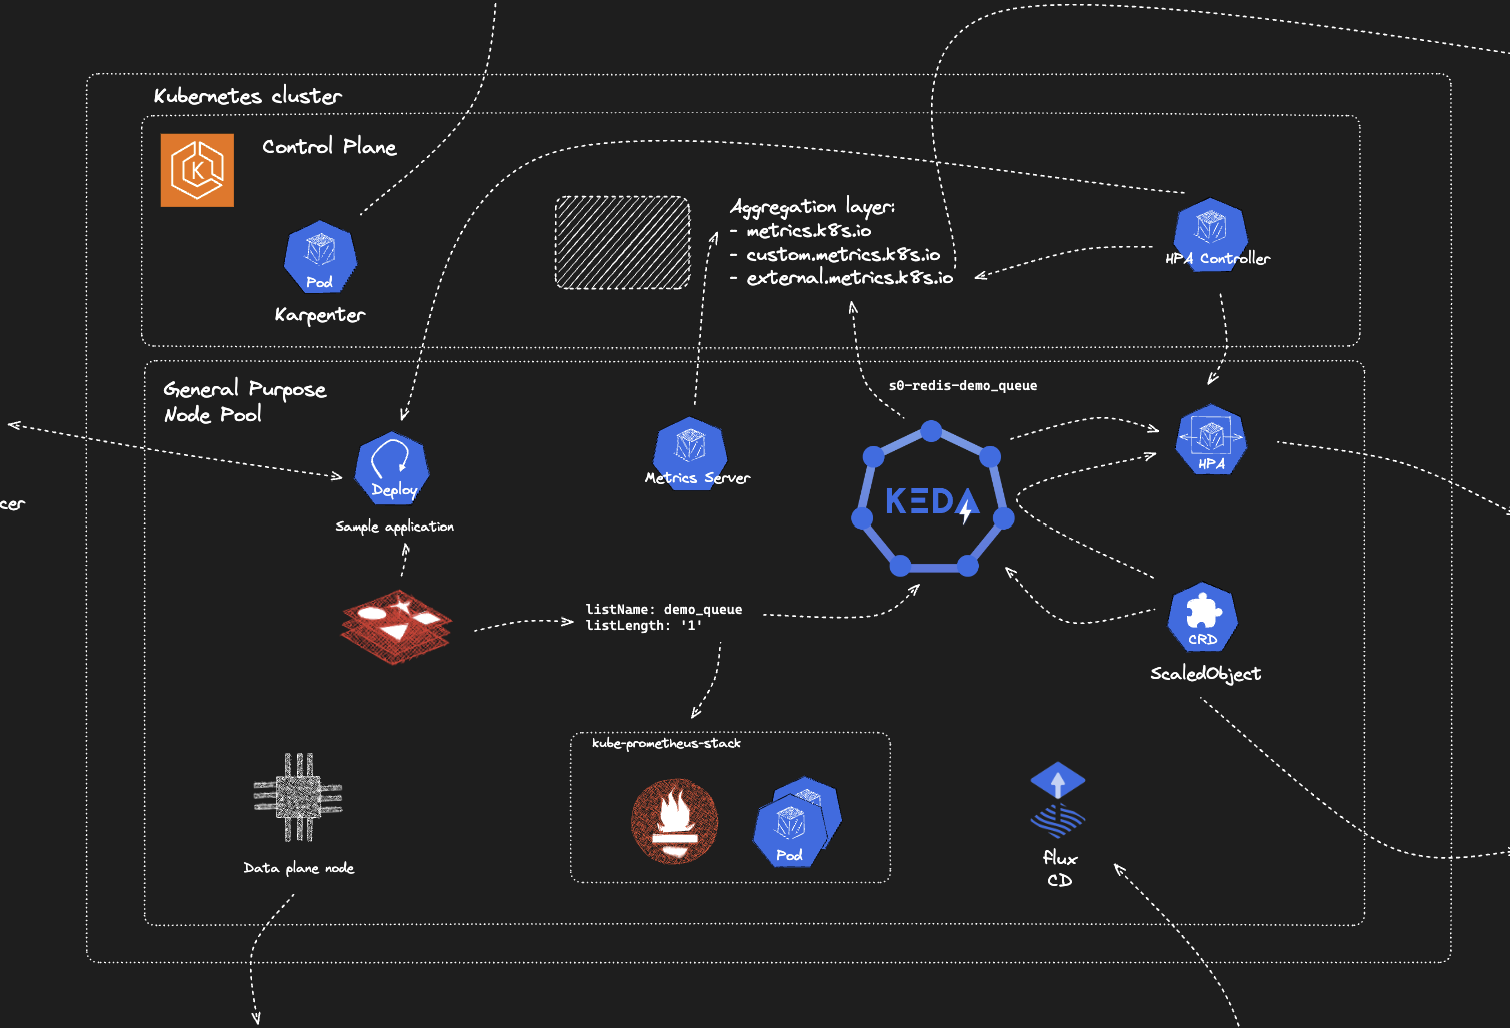
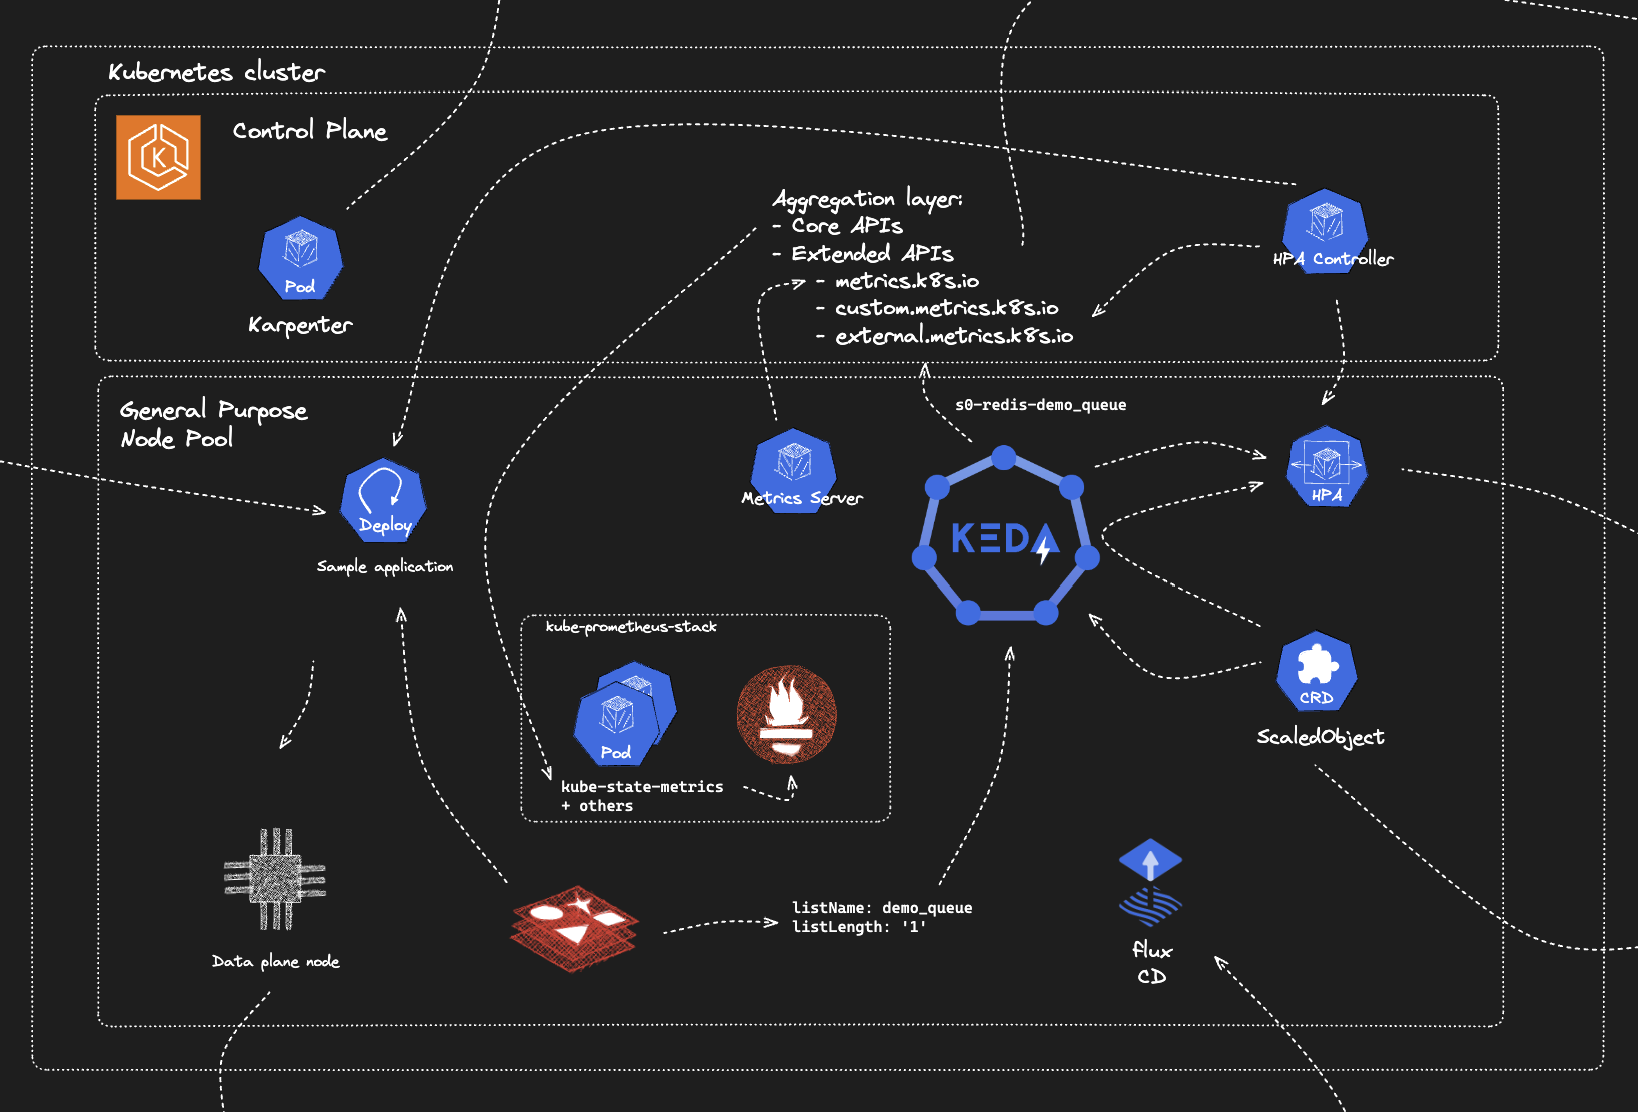
updated readme

diff --git a/eda-keda-prometheus/README.md b/eda-keda-prometheus/README.md
@@ -347,6 +347,19 @@ You will see the HPA event we just triggered:
 
 ![grafana dashboard hpa](./images/grafana_dashboard_hpa.png)
 
+#### How Redis Queue Metrics Appear in Grafana
+
+The HPA dashboard shows the `s0-redis-demo_queue` metric through this flow:
+
+1. **KEDA queries Redis directly**
+2. **KEDA exposes metric** via External Metrics API: `/apis/external.metrics.k8s.io/v1beta1/.../s0-redis-demo_queue`
+3. **HPA controller queries External Metrics API** and updates HPA object status with current value
+4. **kube-state-metrics reads HPA object** via Core Kubernetes API: `/apis/autoscaling/v2/.../horizontalpodautoscalers/...`
+5. **kube-state-metrics exports to Prometheus**
+6. **Grafana queries Prometheus**
+
+The `s0-redis-demo_queue` metric name appears in Grafana because kube-state-metrics (included in kube-prometheus-stack) converts HPA object metadata into Prometheus metrics, including the external metric names that KEDA configured.
+
 ### Key Metrics Available
 
 The setup exposes several important metrics for monitoring:
